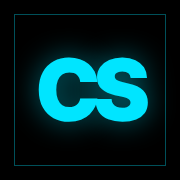
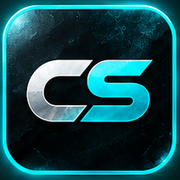
feat(portfolio): иконите и бранд файловете на собственика заменят всички inline SVG
Собственикът достави един лист с 10 индустриални + 14 UI икони и бранд файлове; изрязани с sharp:
- public/icons/<key>.webp (148×176) — картите в хъба (src/templates/icons.mjs → <img>);
- public/icons/ui/<key>.webp (92×94) — ICON в html.mjs → <img class="ic-img">, размер от CSS;
- favicon.png 64×64 (вместо favicon.svg), apple-touch-icon.png 180×180, og.png 1200×630
  (листът е 2.88:1 → 1200×418 върху тъмен фон до 630).
Никакви други икони: inline SVG регистрите са махнати, неизползваната „heart" — също;
tools/render-images.mjs и npm скриптът images са изтрити (бранд файловете вече не се генерират).
CSS: .ic-img правила в site/demo/premium.css (бутони, бейджове, звезди, бургер меню, „Обади се").
Гейт: build, 10/10 тестове, static-site-check (нула счупени препратки). Документирано в CLAUDE.md.

Claude-Session: https://claude.ai/code/session_01MVMCcmK1QmUJDkvmv7wLjX

diff --git a/portfolio/src/assets/demo.css b/portfolio/src/assets/demo.css
@@ -4,6 +4,7 @@
 html{-webkit-text-size-adjust:100%;scroll-behavior:smooth;scroll-padding-top:120px}
 body{margin:0;background:var(--bg);color:var(--text);font-family:var(--body);font-size:17px;line-height:1.6;-webkit-font-smoothing:antialiased;overflow-x:hidden}
 img,svg{display:block;max-width:100%}
+.ic-img{display:inline-block;width:20px;height:auto;border-radius:4px;vertical-align:middle;flex:none}
 a{color:inherit;text-decoration:none}
 h1,h2,h3{font-family:var(--display);line-height:1.05;margin:0;letter-spacing:-.01em}
 h1{font-size:clamp(40px,6.4vw,84px);font-weight:700}
@@ -30,7 +31,8 @@ p{margin:0 0 14px}
 .btn-primary:hover{background:var(--accent2)}
 .btn-ghost{border-color:var(--line);color:var(--text);background:transparent}
 .btn-ghost:hover{border-color:var(--accent)}
-.btn-nav{padding:11px 16px;background:var(--text);color:var(--bg)}
+.btn-nav{padding:8px 12px 8px 8px;background:var(--text);color:var(--bg)}
+.btn-nav .ic-img{width:26px;border-radius:6px}
 
 /* Carbon Stealth demo bar — бранд езикът на carbonstealth.eu (черно · cyan · Space Mono) */
 .cs-bar{position:sticky;top:0;z-index:60;display:flex;align-items:center;gap:14px;padding:8px clamp(12px,3vw,32px);background:#000;color:#ccc;font:400 11px/1 'Space Mono',ui-monospace,monospace;letter-spacing:.08em;border-bottom:1px solid rgba(0,229,255,.2)}
@@ -50,7 +52,8 @@ p{margin:0 0 14px}
 .menu{display:flex;gap:26px;margin-left:auto;font-size:15px;font-weight:500}
 .menu a{position:relative;padding:4px 0;color:var(--muted)}
 .menu a:hover{color:var(--text)}
-.burger{display:none;background:none;border:0;color:var(--text);margin-left:auto;padding:6px;cursor:pointer}
+.burger{display:none;background:none;border:0;color:var(--text);margin-left:auto;padding:0;cursor:pointer}
+.burger .ic-img{width:38px;border-radius:8px}
 
 /* Hero */
 .hero{position:relative;min-height:min(calc(100vh - 34px),860px);display:grid;grid-template-columns:1.05fr .95fr;gap:clamp(32px,5vw,72px);align-items:center;padding:clamp(56px,8vw,110px) clamp(16px,4vw,40px);max-width:1280px;margin:0 auto;overflow:hidden}
@@ -114,7 +117,7 @@ p{margin:0 0 14px}
 /* Badges strip */
 .badges{display:flex;flex-wrap:wrap;gap:8px 32px;justify-content:center;padding:18px clamp(16px,4vw,40px);border-top:1px solid var(--line);border-bottom:1px solid var(--line);font-size:14px;font-weight:500;color:var(--muted)}
 .badges span{display:inline-flex;align-items:center;gap:8px}
-.badges svg{color:var(--accent)}
+.badges .ic-img{width:18px;margin-right:8px}
 
 /* Widgets */
 .widget{background:var(--surface);border:1px solid var(--line);border-radius:calc(var(--radius) * 2);padding:clamp(20px,2.4vw,32px);box-shadow:0 30px 80px -30px rgba(0,0,0,.45);width:min(100%,460px);margin-inline:auto}
@@ -141,7 +144,7 @@ p{margin:0 0 14px}
 .kpi-wide{grid-column:1/-1}
 .w-consult ul{list-style:none;margin:0;padding:0;display:grid;gap:10px}
 .w-consult li{display:flex;gap:10px;align-items:flex-start;font-size:15px}
-.w-consult svg{color:var(--accent);flex:none;margin-top:3px}
+.w-consult .ic-img{margin-top:2px}
 
 /* Cards */
 .card{background:var(--surface);border:1px solid var(--line);border-radius:calc(var(--radius) * 2);padding:28px;display:flex;flex-direction:column;gap:10px;transition:transform .25s,border-color .25s}
@@ -165,7 +168,8 @@ p{margin:0 0 14px}
 .review{margin:0;background:var(--surface);border:1px solid var(--line);border-radius:calc(var(--radius) * 2);padding:28px}
 .review p{font-size:16px;margin:12px 0 16px}
 .review footer{color:var(--muted);font-size:14px}
-.stars{display:inline-flex;gap:2px;color:var(--accent)}
+.stars{display:inline-flex;gap:3px}
+.stars .ic-img{width:16px;border-radius:3px}
 .faq{border-bottom:1px solid var(--line);padding:6px 0}
 .faq summary{cursor:pointer;list-style:none;display:flex;align-items:center;justify-content:space-between;gap:16px;padding:16px 0}
 .faq summary::-webkit-details-marker{display:none}
@@ -175,7 +179,7 @@ p{margin:0 0 14px}
 .faq p{color:var(--muted);padding-bottom:12px;max-width:65ch}
 .info{list-style:none;margin:20px 0 0;padding:0;display:grid;gap:14px}
 .info li{display:flex;gap:12px;align-items:flex-start}
-.info svg{color:var(--accent);flex:none;margin-top:4px}
+.info .ic-img{margin-top:2px}
 .form{background:var(--surface);border:1px solid var(--line);border-radius:calc(var(--radius) * 2);padding:clamp(20px,3vw,36px);display:grid;gap:14px}
 .form label{display:grid;gap:6px;font-size:14px;color:var(--muted)}
 .form input,.form textarea{width:100%;font:inherit;color:var(--text);background:var(--bg);border:1px solid var(--line);border-radius:var(--radius);padding:12px 14px}

diff --git a/portfolio/src/assets/site.css b/portfolio/src/assets/site.css
@@ -87,6 +87,9 @@ body.glitching{box-shadow:inset 3px 0 0 rgba(var(--cyan-rgb),.5),inset -3px 0 0 
 .btn-ghost{border-color:rgba(var(--off-rgb),.2);color:var(--off)}
 .btn-ghost:hover{background:var(--off);color:#000}
 .btn svg{width:14px;height:14px}
+.ic-img{display:inline-block;width:18px;height:auto;border-radius:3px;vertical-align:middle;flex:none}
+.btn .ic-img{width:18px}
+.btn-solid .ic-img,.btn:hover .ic-img{box-shadow:0 0 0 1px rgba(0,0,0,.35)}
 .cta-row{display:flex;gap:12px;flex-wrap:wrap}
 
 /* --- hero --- */
@@ -121,7 +124,8 @@ body.glitching{box-shadow:inset 3px 0 0 rgba(var(--cyan-rgb),.5),inset -3px 0 0 
 .cell h3{font-size:1.15rem;margin:10px 0;color:var(--off)}
 .cell p{font-size:12px;color:var(--text);line-height:1.8}
 .cell .ic{width:38px;height:38px;border:1px solid rgba(var(--cyan-rgb),.2);display:grid;place-items:center;color:var(--cyan);margin-bottom:14px}
-.cell .ic svg{width:18px;height:18px}
+.cell .ic{width:auto;height:auto;border:0;margin-bottom:14px}
+.cell .ic .ic-img{width:38px;border-radius:6px}
 
 /* --- демо карти --- */
 .demo-card{padding:0;display:flex;flex-direction:column}
@@ -129,7 +133,7 @@ body.glitching{box-shadow:inset 3px 0 0 rgba(var(--cyan-rgb),.5),inset -3px 0 0 
 .cover-art{position:absolute;inset:0;display:grid;place-items:center;align-content:center;gap:12px;color:var(--c-accent,var(--cyan));transition:opacity .5s}
 .cover-art::before{content:"";position:absolute;inset:0;background:radial-gradient(circle at 70% 20%,color-mix(in srgb,var(--c-accent,var(--cyan)) 30%,transparent),transparent 55%),linear-gradient(var(--c-surface,#111),var(--c-bg,#000))}
 .cover-art>*{position:relative}
-.cover-art svg{width:min(26%,100px);height:auto}
+.cover-art .ind-icon{width:min(26%,110px);height:auto;border-radius:10px;box-shadow:0 20px 50px -20px rgba(0,0,0,.8)}
 .cover-name{font-size:clamp(20px,2.2vw,28px);font-weight:700;color:var(--c-text,#fff)}
 .demo-cover iframe{position:absolute;top:0;left:0;z-index:2;width:1440px;height:900px;border:0;transform:scale(var(--s,.25));transform-origin:0 0;pointer-events:none;opacity:0;transition:opacity .5s;background:var(--c-bg,#000)}
 .demo-cover iframe.ready{opacity:1}
@@ -175,7 +179,7 @@ body.glitching{box-shadow:inset 3px 0 0 rgba(var(--cyan-rgb),.5),inset -3px 0 0 
 .tier-market b{color:var(--green);font-weight:400}
 .tier ul{list-style:none;display:grid;gap:8px;font-size:11px;flex:1;color:var(--text-2)}
 .tier li{display:flex;gap:8px;align-items:flex-start}
-.tier li svg,.terms svg{color:var(--cyan);flex:none;margin-top:3px;width:14px;height:14px}
+.tier li .ic-img,.terms .ic-img{width:16px;margin-top:2px}
 .tier-delivery{display:flex;gap:8px;align-items:center;font-size:10px;letter-spacing:.1em;color:var(--ph);text-transform:uppercase}
 .tier .btn{justify-content:center;margin-top:6px}
 .addons{display:grid;grid-template-columns:1fr 1fr;gap:1px;background:rgba(var(--off-rgb),.06);border:1px solid rgba(var(--off-rgb),.06)}

diff --git a/portfolio/src/assets/premium.css b/portfolio/src/assets/premium.css
@@ -24,11 +24,10 @@
 .proof b{color:var(--accent);font-weight:600}
 .hero-center .proof{text-align:center}
 
-/* Trust strip: без икони, само факти */
+/* Trust strip: фактите с иконата на собственика */
 .badges{gap:10px 0;padding:16px clamp(16px,4vw,40px);font-size:13px;letter-spacing:.04em;text-transform:uppercase;font-weight:500}
-.badges span{padding:0 22px;border-left:1px solid var(--line)}
+.badges span{padding:0 22px;border-left:1px solid var(--line);display:inline-flex;align-items:center}
 .badges span:first-child{border-left:0}
-.badges svg{display:none}
 
 /* Оферта-банер */
 .offer{background:var(--accent);color:var(--on-accent)}

diff --git a/portfolio/CLAUDE.md b/portfolio/CLAUDE.md
@@ -19,7 +19,6 @@ node build.mjs                                  # → dist/ (45 файла, 39 U
 node --test test/build.test.mjs                 # паритет на езиците · SEO инварианти · цени ≥15% под пазара
 node ../tools/qa/static-site-check.mjs dist     # препратки · ключови думи · title/lang (repo гейтът)
 node serve.mjs                                  # локален преглед на http://127.0.0.1:4180/
-node tools/render-images.mjs                    # og.png + apple-touch-icon.png (само при смяна на бранда)
 node tools/fonts.mjs                            # самостоятелно хостване на шрифтовете (при смяна на семейство)
 node tools/photos.mjs --openimages [demo]       # снимките от photos.picks.json (CC BY 2.0) → public/img/<demo>/ (виж „Снимки")
 PEXELS_API_KEY=… node tools/photos.mjs [demo]   # алтернатива: Pexels по photos.manifest.json
@@ -42,10 +41,10 @@ src/templates/widgets.mjs   „живите" карти в hero-то: booking ·
 src/templates/hub.mjs       началната (бранд тема), pricing.mjs — цените, misc.mjs — правна/404/robots/llms/sitemap
 src/templates/photos.mjs    снимките на демо: чете public/img/<id>/credits.json, <picture> + srcset, кредити
 src/assets/                 site.css+js+hero.js (хъб), demo.css+js + premium.css+js (демота), fx/ (4 продуктови добавки), fonts/*.css — без билд
-public/                     favicon.svg, logo.png/webp, og.png, apple-touch-icon.png, fonts/*.woff2, img/<demo>/, indexnow-key.txt
+public/                     favicon.png, logo.png/webp, og.png, apple-touch-icon.png, icons/ (индустриални) + icons/ui/ (UI), fonts/*.woff2, img/<demo>/, indexnow-key.txt
 photos.picks.json           ръчният подбор от Open Images (id · subset · автор · Flickr линк · CC BY 2.0) за всеки слот
 photos.manifest.json        заявки към Pexels за всеки слот на всяко демо (hero · about · g1–g6) — алтернативен източник
-tools/                      fonts.mjs (Google Fonts → self-host) · photos.mjs (Open Images/Pexels → webp) · render-images.mjs
+tools/                      fonts.mjs (Google Fonts → self-host) · photos.mjs (Open Images/Pexels → webp)
 test/build.test.mjs         гейтът · docs/PRICING-RESEARCH.md — проучването зад цените (с източници и дата)
 nginx.conf · deploy.sh      продукционният конфиг (CSP, HSTS, истинско 404) и деплоят
 ```
@@ -86,6 +85,11 @@ nginx.conf · deploy.sh      продукционният конфиг (CSP, HST
   (токени + `swatches()`), `salon.js`/`mebeli.js` (проба на цвят/материал — сменя акцента на живо),
   `schetovodstvo.js`/`avtokashta.js` (калкулатори). Шаблонът зарежда fx/ само за демотата в `FX_MODULES`.
   Ново демо с добавка → нов `fx/<id>.js` + id в `FX_MODULES`. Никога строб.
+- **Икони и бранд файлове са на собственика** (доставени като един лист; изрязани с sharp): `public/icons/<key>.webp`
+  (10 индустриални, 148×176 — картите в хъба, `src/templates/icons.mjs`) и `public/icons/ui/<key>.webp` (14 UI,
+  92×94 — `ICON` в `html.mjs`, размерът е от CSS `.ic-img`), `favicon.png` 64×64, `apple-touch-icon.png` 180×180,
+  `og.png` 1200×630. **Никакви други икони** (inline SVG, емоджи, библиотеки) — нова икона се иска от собственика
+  в същия стил и се добавя със същото име в двата регистъра. `logo.png/webp` е от carbonstealth.eu.
 - **Шрифтове**: всички се хостват от нас (`tools/fonts.mjs` → `public/fonts/`, `src/assets/fonts/<семейство>.css`);
   `head()` включва само семействата на страницата. Нова Google Fonts препратка в HTML е грешка (гейтната в теста).
 - **„Живите" hero карти са реални UI**: резервация (услуга → цена, дата, час, име → потвърждение), график (избор
